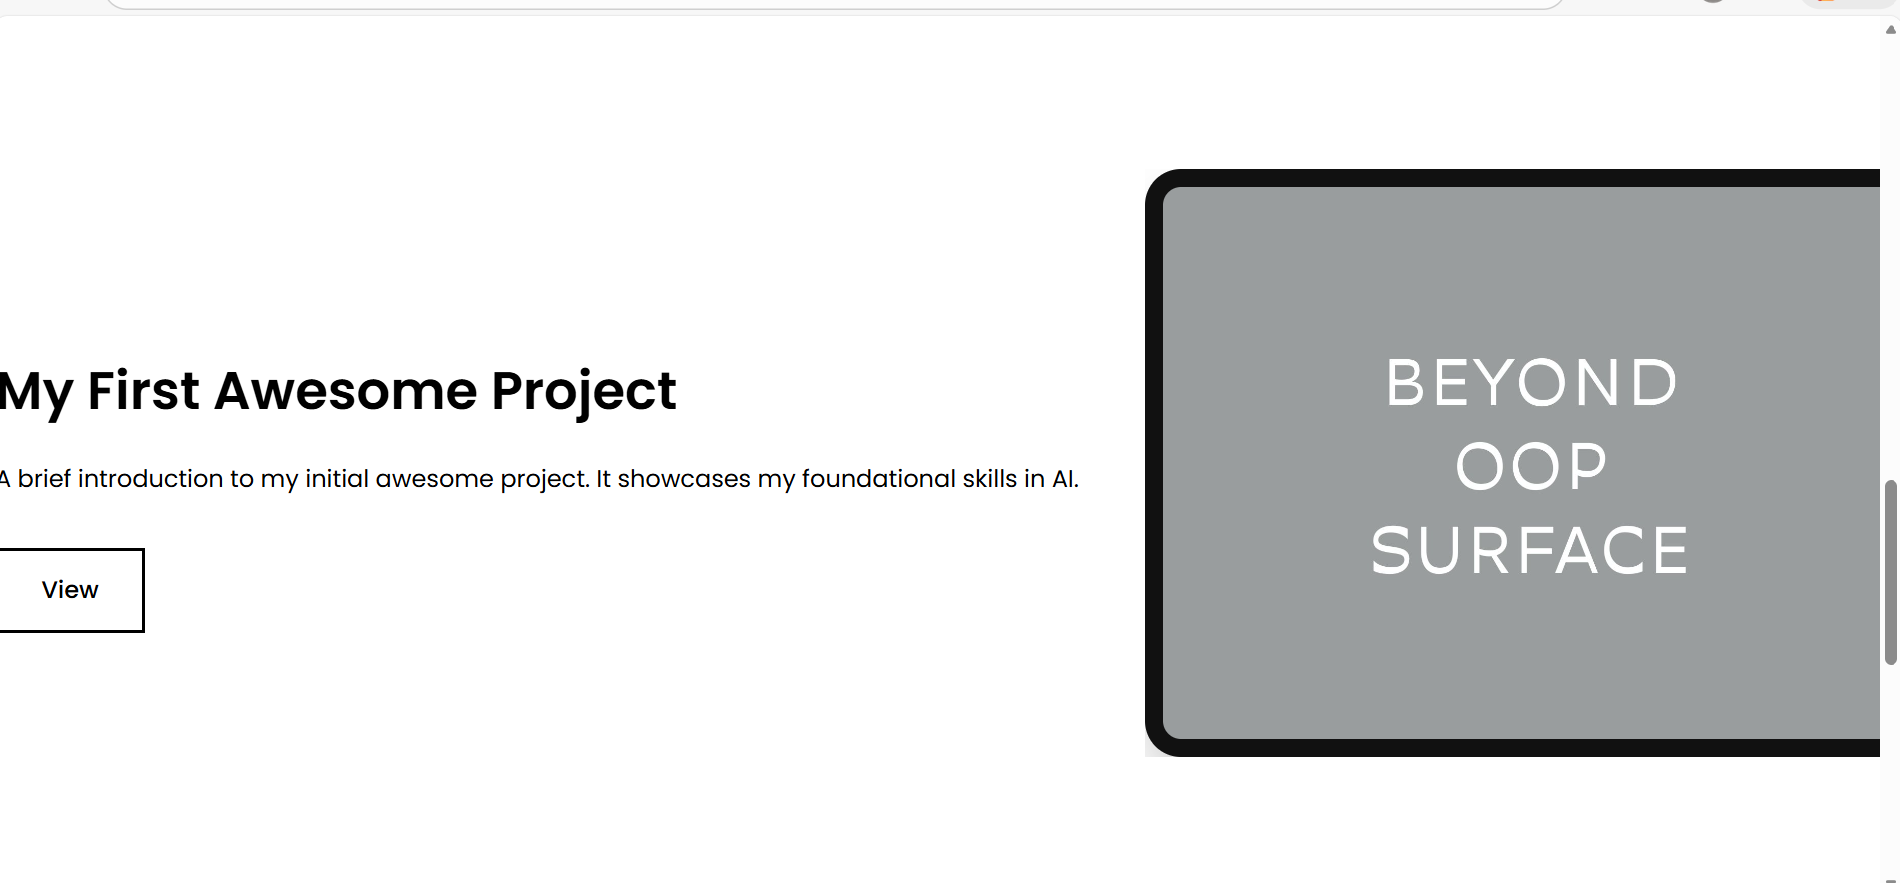
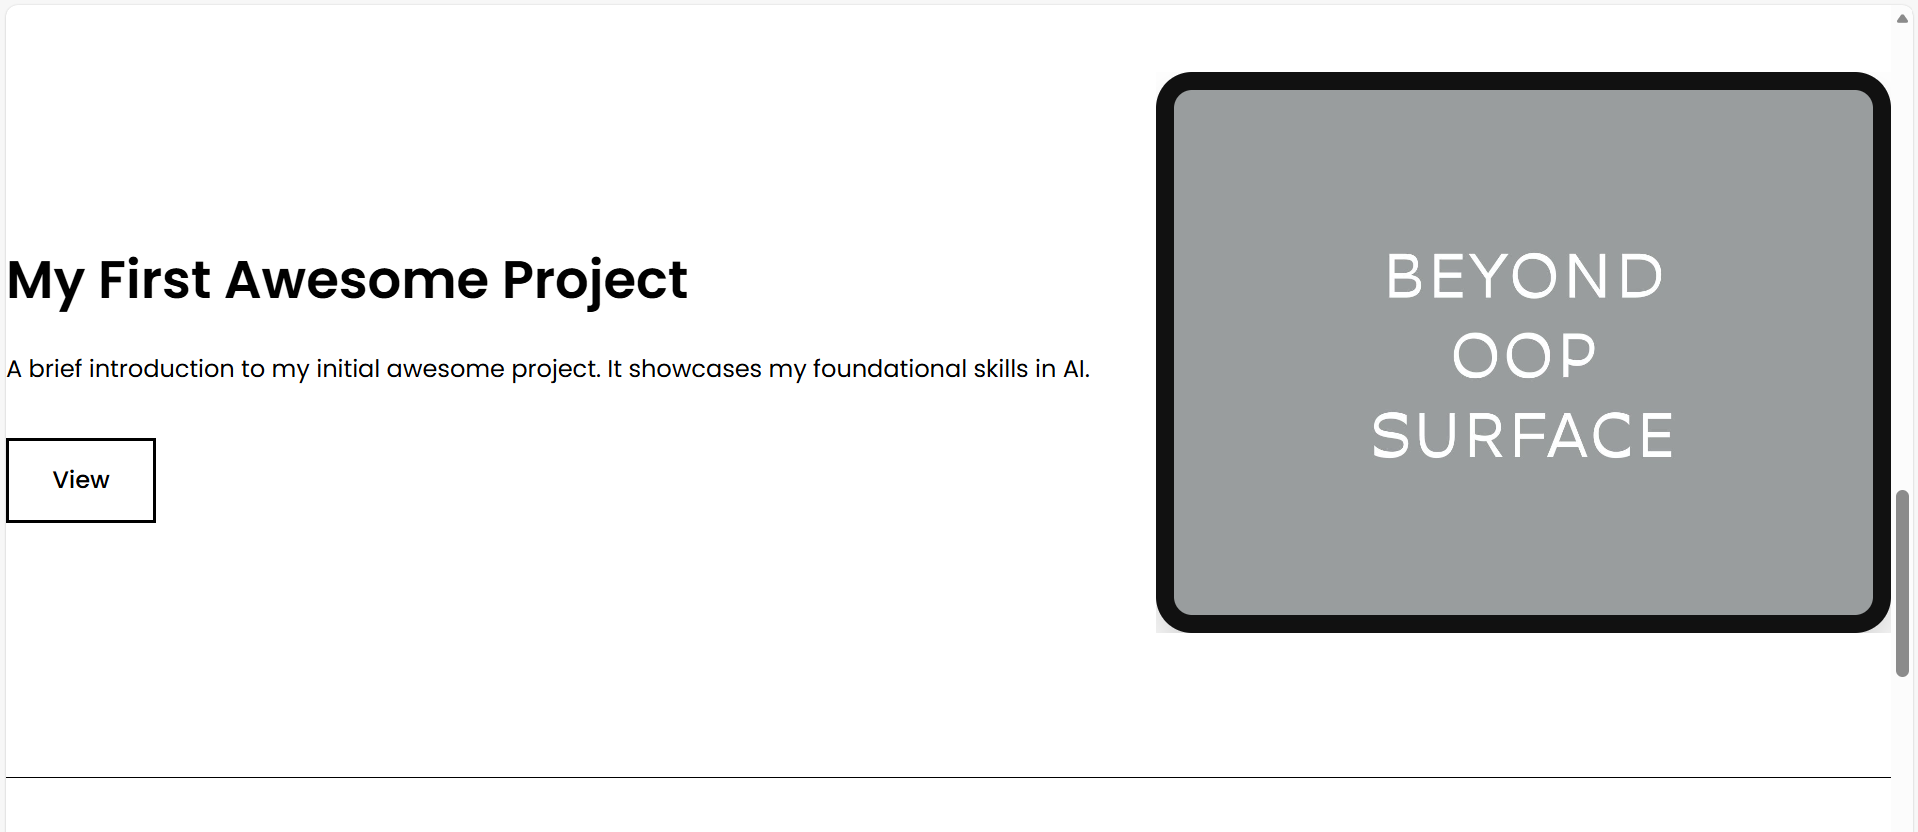
Design: Revert iPad horizontal shift and fine-tune project heading spacing.

diff --git a/static/css/style.css b/static/css/style.css
@@ -160,11 +160,22 @@ header nav a:hover {
 }
 
 /* Sections */
+#about {
+    border-bottom: none;
+}
+
 #about h2, #projects h2, #contact h2 {
     font-size: 3.5rem;
     text-align: center;
     margin-bottom: 5rem;
+    font-weight: 400;
 }
+
+#projects h2 {
+    margin-top: 2rem;
+    margin-bottom: 2rem;
+}
+
 
 #about p {
     font-size: 1.2rem;
@@ -184,8 +195,12 @@ header nav a:hover {
     display: grid;
     grid-template-columns: 1.2fr 0.8fr;
     gap: 2rem;
-    align-items: center;
+    align-items: start;
     justify-content: center;
+}
+
+.project-info {
+    text-align: center;
 }
 
 .project-thumbnail {
@@ -237,7 +252,8 @@ header nav a:hover {
     border-radius: 24px;
     padding: 12px;
     box-shadow: 0 20px 40px -10px rgba(0,0,0,0.3);
-    box-sizing: border-box; /* Fix for overflow */
+    box-sizing: border-box;
+    /* Removed transform: translateX(-5%); */
 }
 
 .macbook-screen {
@@ -245,7 +261,7 @@ header nav a:hover {
     z-index: 2;
     background: #000;
     border-radius: 12px;
-    padding-bottom: 75%; /* 4:3 Aspect Ratio */
+    padding-bottom: 75%;
     overflow: hidden;
 }
 
